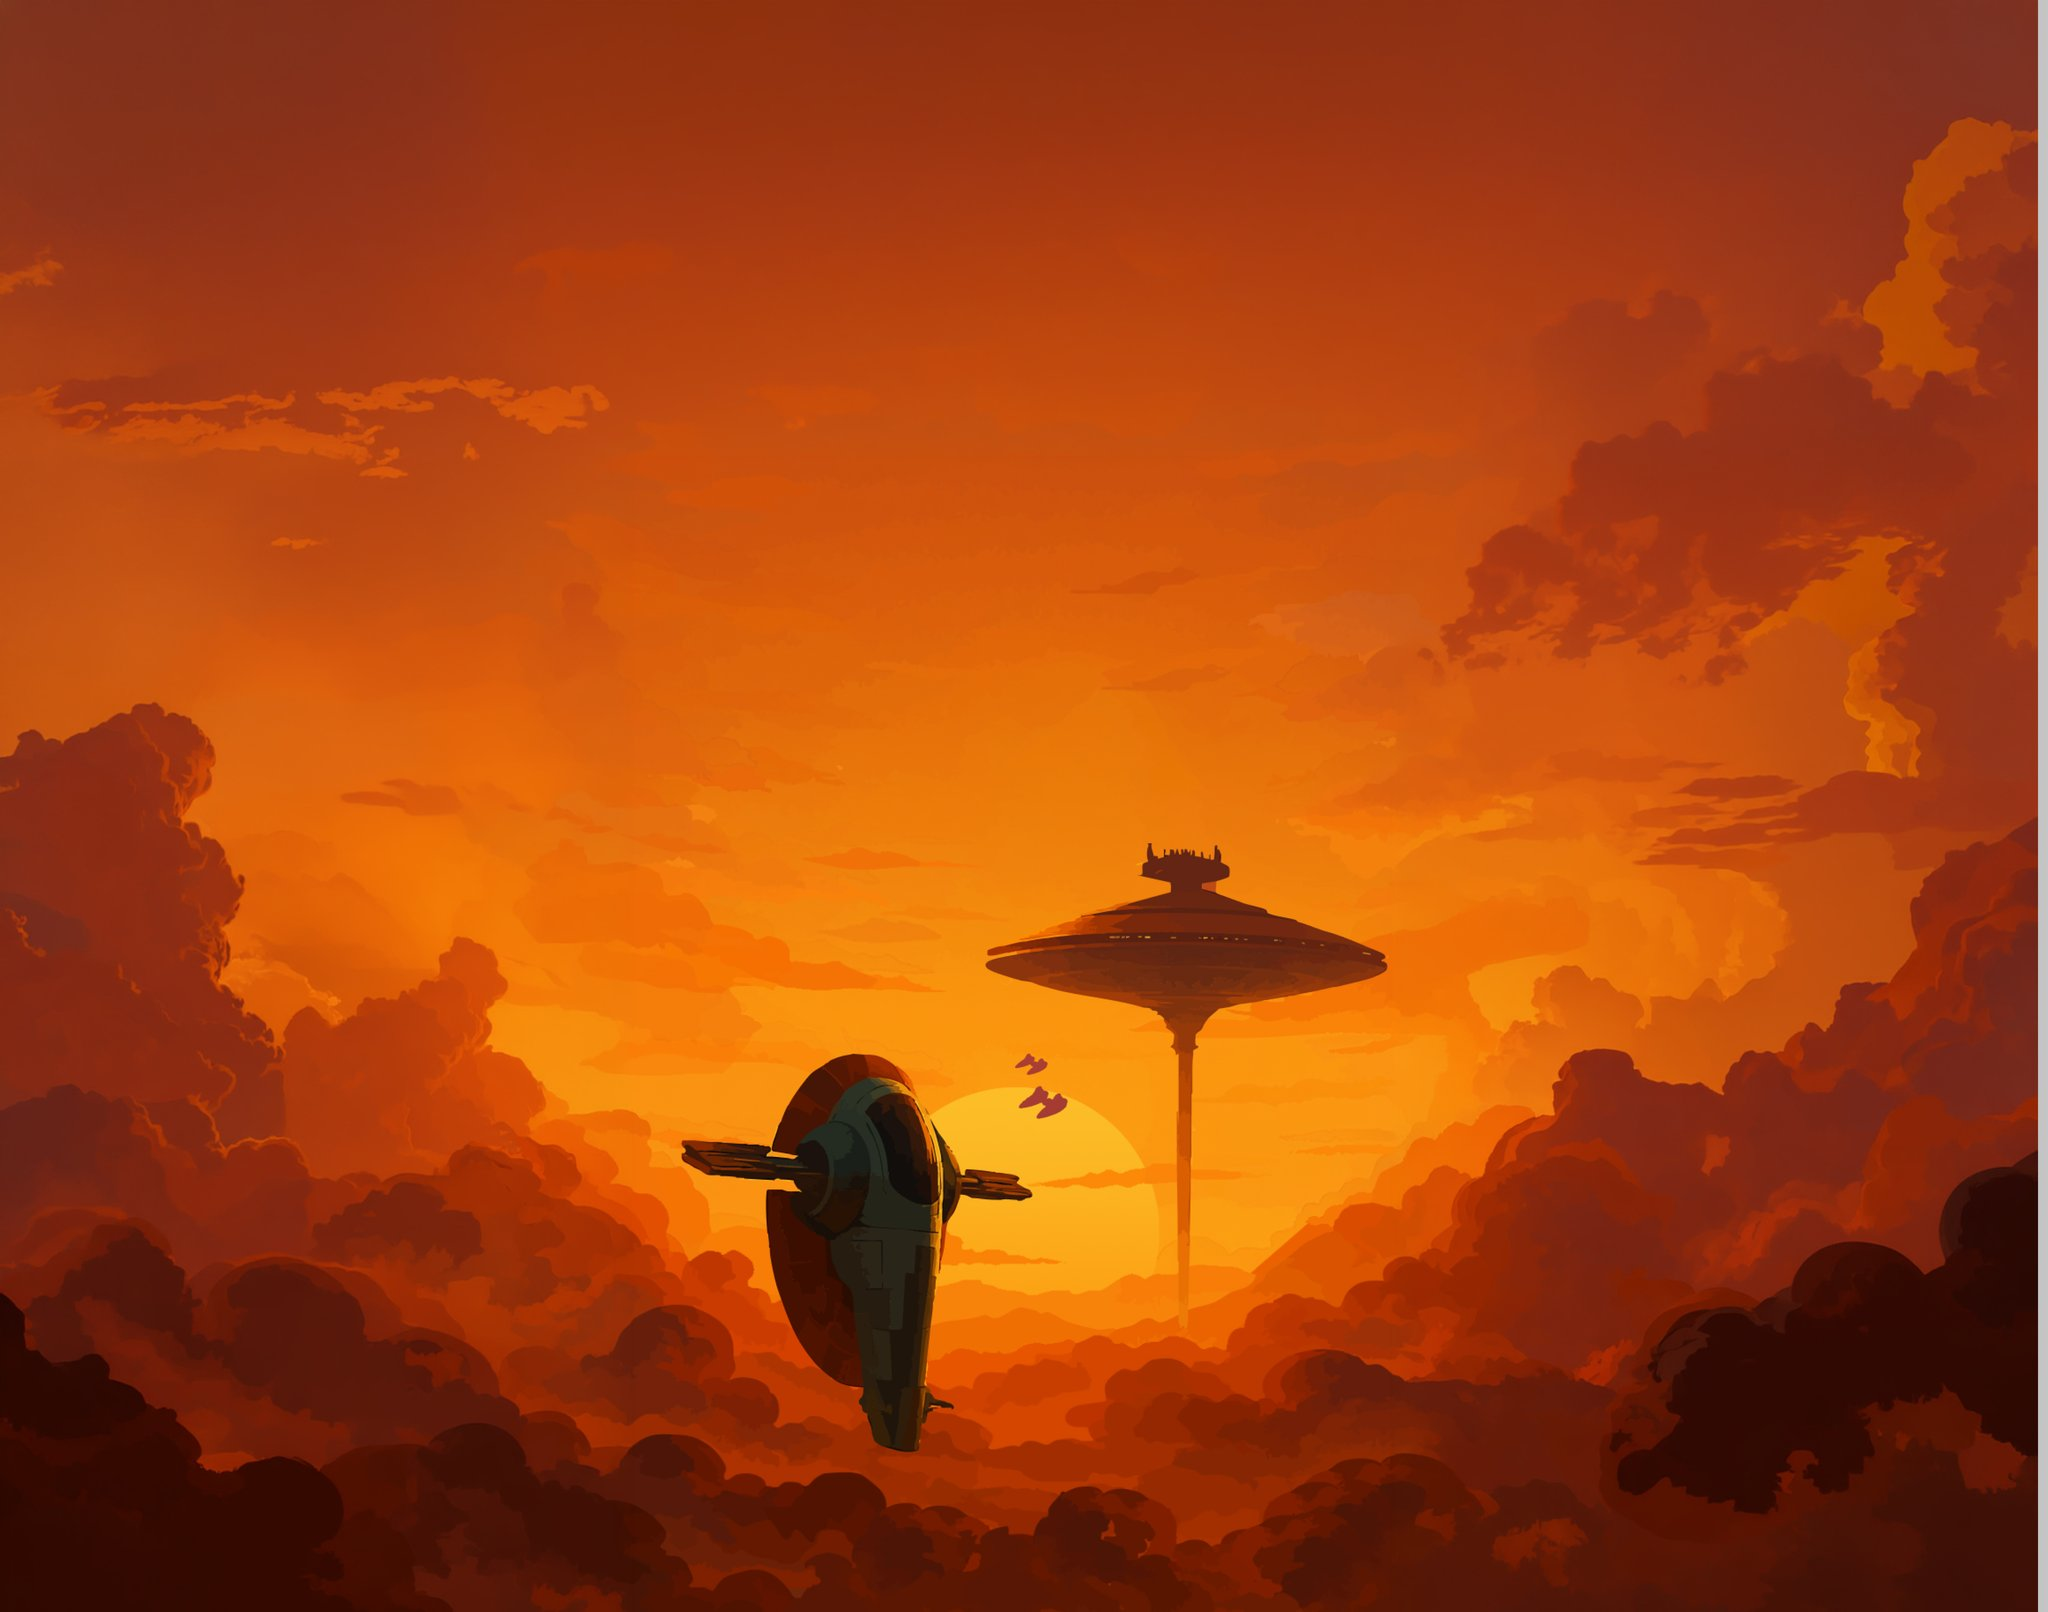
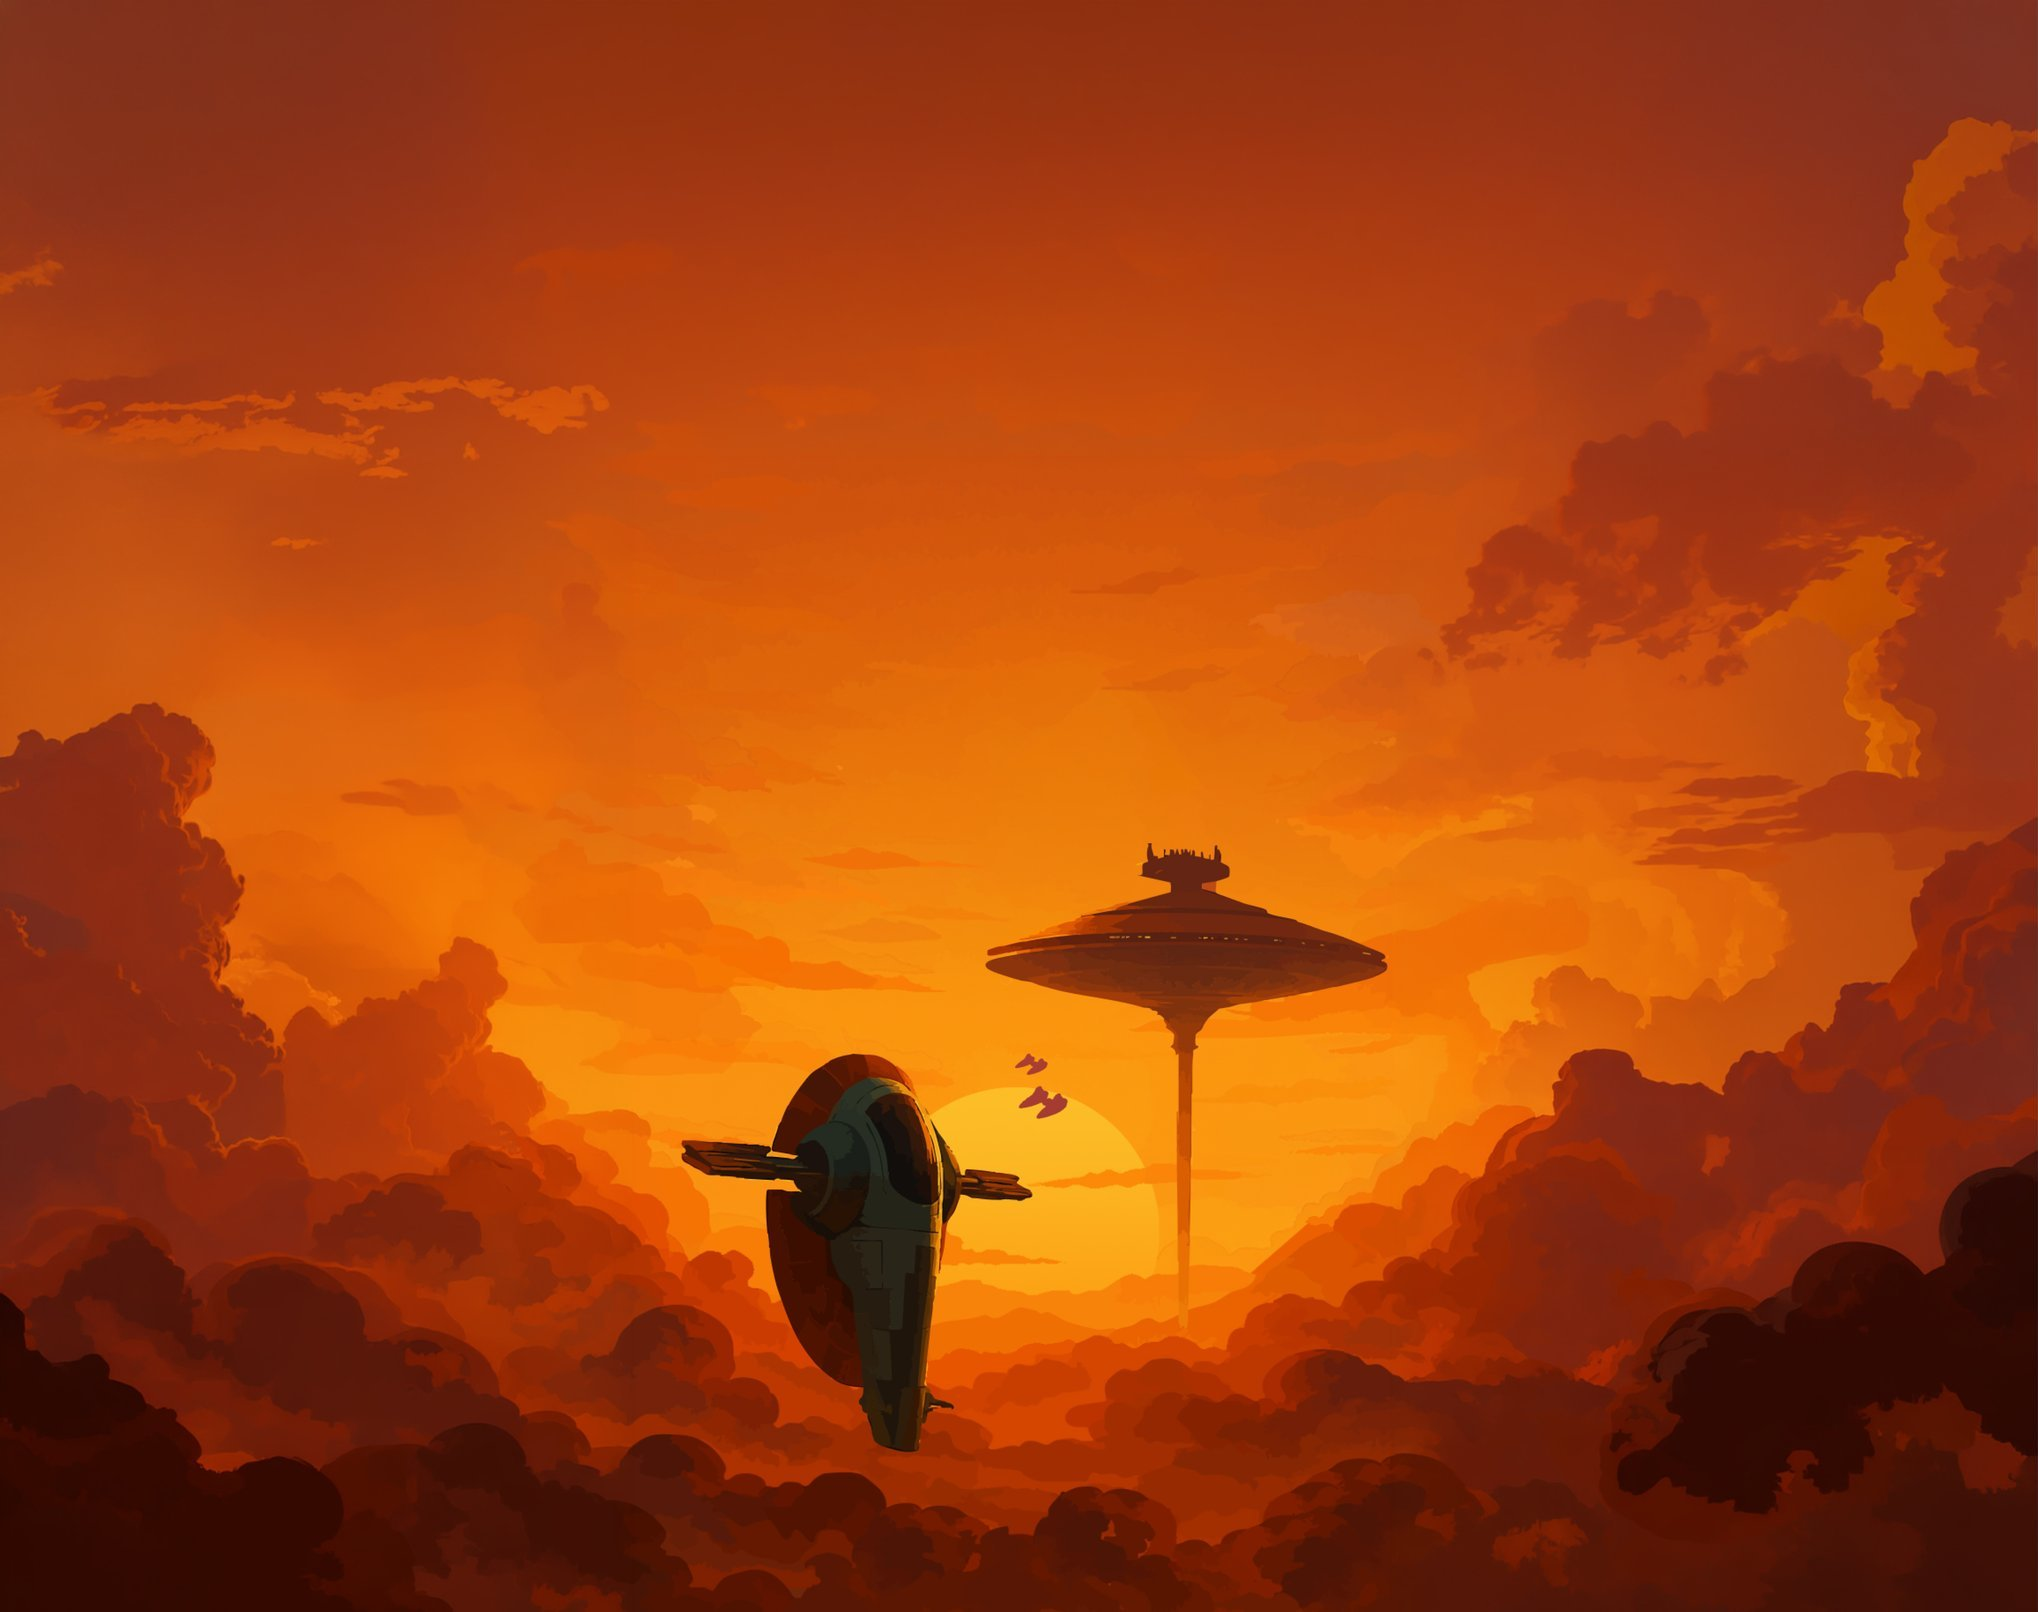
Trim export-frame bands from the art — the actual cause of the card sliver
The sliver down the right of the saved-location cards was in the image, not the
layout. ghorman.jpg — the world on both cards in the report — carried a flat
28px band at brightness 196 against an interior of 113. The card art is
cover-fitted, so the band is drawn like any other part of the painting.

It arrived with the JPG exports: the original PNGs have no band at either
4000px or downsampled, and the exports also changed aspect from 4000x3000 to
4100x3227, which is consistent with Figma including the surrounding frame. The
durable fix is to export without it; this cleans up what is already here.

Six files trimmed: ghorman 28px right, mustafar 19, naboo 18, bespin 10, ilum 3,
exegol 7 bottom.

An edge is only trimmed when it differs from the pixels just inside it AND is
near-uniform along its length AND terminates inside the scan window. The last
rule matters: a first pass wanted to take 40px off the bottom of ahch-to and
nur, whose dark water is flat and uniform for far longer than any frame — that
would have cut the paintings.

Tones regenerated; only Exegol moved, by three hex points.

The earlier GeometryReader change to SavedLocationCardView was not the fix.
Keeping it: flexible-bounds aspect-fill was the only instance in the app, and
explicit sizing is what the other eight call sites already do.

diff --git a/web-app/galactic-weather/src/app/components/NavMenu.tsx b/web-app/galactic-weather/src/app/components/NavMenu.tsx
@@ -1,0 +1,97 @@
+"use client";
+import React, { useEffect, useRef, useState } from "react";
+import Link from "next/link";
+import styles from "../styles/NavMenu.module.css";
+
+/**
+ * The small stuff, behind a "…" in the nav.
+ *
+ * This mirrors what iOS's dropdown became: Atlas and Passport are the things
+ * people come here for and get real buttons, while attribution and legal — the
+ * housekeeping — moves out of sight until asked for. The artwork credit stays in
+ * the footer rather than moving in here; it's a product statement, not
+ * housekeeping.
+ *
+ * iOS additionally has Settings and Account in its menu. Neither exists on web,
+ * so this is deliberately shorter rather than padded out to match.
+ */
+const NavMenu: React.FC = () => {
+	const [isOpen, setIsOpen] = useState(false);
+	const containerRef = useRef<HTMLDivElement>(null);
+
+	// A dropdown that only closes via its own button is a trap on a page where
+	// everything else is clickable.
+	useEffect(() => {
+		if (!isOpen) return;
+
+		const onPointerDown = (event: MouseEvent | TouchEvent) => {
+			if (!containerRef.current?.contains(event.target as Node)) {
+				setIsOpen(false);
+			}
+		};
+		const onKeyDown = (event: KeyboardEvent) => {
+			if (event.key === "Escape") setIsOpen(false);
+		};
+
+		document.addEventListener("mousedown", onPointerDown);
+		document.addEventListener("touchstart", onPointerDown);
+		document.addEventListener("keydown", onKeyDown);
+		return () => {
+			document.removeEventListener("mousedown", onPointerDown);
+			document.removeEventListener("touchstart", onPointerDown);
+			document.removeEventListener("keydown", onKeyDown);
+		};
+	}, [isOpen]);
+
+	return (
+		<div className={styles.container} ref={containerRef}>
+			<button
+				type="button"
+				className={styles.trigger}
+				onClick={() => setIsOpen((open) => !open)}
+				aria-haspopup="menu"
+				aria-expanded={isOpen}
+				aria-label="More"
+			>
+				{/* Three dots as text: an icon font or SVG for one glyph isn't worth
+				    the weight, and this scales with the button's font size. */}
+				<span aria-hidden="true">···</span>
+			</button>
+
+			{isOpen && (
+				<div className={styles.menu} role="menu">
+					<p className={styles.credit}>
+						Inspired by a{" "}
+						<a
+							href="https://www.tomscott.com/weather/starwars/"
+							target="_blank"
+							rel="noopener noreferrer"
+						>
+							weather site
+						</a>{" "}
+						from long ago. Designed and developed by{" "}
+						<a
+							href="https://www.robleto.com/"
+							target="_blank"
+							rel="noopener noreferrer"
+						>
+							Greg Robleto
+						</a>
+						.
+					</p>
+
+					<Link
+						href="/privacy"
+						className={styles.item}
+						role="menuitem"
+						onClick={() => setIsOpen(false)}
+					>
+						Privacy
+					</Link>
+				</div>
+			)}
+		</div>
+	);
+};
+
+export default NavMenu;

diff --git a/web-app/galactic-weather/src/app/styles/NavMenu.module.css b/web-app/galactic-weather/src/app/styles/NavMenu.module.css
@@ -1,0 +1,79 @@
+.container {
+  position: relative;
+  flex-shrink: 0;
+}
+
+/* Matches .navAction in page.module.css, but square-ish rather than a pill —
+   it holds one glyph, not a word. */
+.trigger {
+  flex-shrink: 0;
+  display: inline-flex;
+  align-items: center;
+  justify-content: center;
+  min-width: 2rem;
+  background: rgba(255, 255, 255, 0.1);
+  border: 1px solid rgba(255, 255, 255, 0.22);
+  color: #fafafa;
+  border-radius: 999px;
+  padding: 0.4rem 0.6rem;
+  font: inherit;
+  font-size: 0.75rem;
+  line-height: 1;
+  letter-spacing: 0.05em;
+  cursor: pointer;
+  transition: background 0.2s ease;
+}
+
+.trigger:hover {
+  background: rgba(255, 255, 255, 0.18);
+}
+
+.menu {
+  position: absolute;
+  top: calc(100% + 0.4rem);
+  right: 0;
+  z-index: 400; /* above the nav bar itself (300) */
+  width: max-content;
+  max-width: min(20rem, calc(100vw - 2rem));
+  display: flex;
+  flex-direction: column;
+  gap: 0.5rem;
+  padding: 0.75rem 0.875rem;
+  border-radius: 0.75rem;
+  background: rgba(10, 14, 22, 0.92);
+  backdrop-filter: blur(10px);
+  -webkit-backdrop-filter: blur(10px);
+  border: 1px solid rgba(255, 255, 255, 0.14);
+  box-shadow: 0 12px 32px rgba(0, 0, 0, 0.45);
+}
+
+.credit {
+  margin: 0;
+  font-size: 0.75rem;
+  line-height: 1.5;
+  color: rgba(250, 250, 250, 0.7);
+}
+
+.credit a {
+  color: #8fc7ff;
+}
+
+.item {
+  display: block;
+  padding: 0.375rem 0;
+  font-size: 0.8125rem;
+  color: #fafafa;
+  text-decoration: none;
+  border-top: 1px solid rgba(255, 255, 255, 0.12);
+}
+
+.item:hover {
+  color: #8fc7ff;
+}
+
+@media (max-width: 600px) {
+  .trigger {
+    padding: 0.35rem 0.5rem;
+    font-size: 0.6875rem;
+  }
+}

diff --git a/web-app/galactic-weather/src/app/components/Footer.tsx b/web-app/galactic-weather/src/app/components/Footer.tsx
@@ -16,7 +16,7 @@ import styles from "../styles/Footer.module.css";
 const Footer: React.FC = () => (
 	<footer className={styles.footer}>
 		<p className={styles.artworkCredit}>
-			Every world here is an original painting — a travel poster for somewhere
+			Every world here is an original digital design — a travel poster for somewhere
 			that doesn&apos;t exist. Prints of the full set are at{" "}
 			<a
 				href="https://creativemadness.studio"

diff --git a/ios-app/galacticweather/galacticweather/Atlas/Worlds.swift b/ios-app/galacticweather/galacticweather/Atlas/Worlds.swift
@@ -117,7 +117,7 @@ let WORLDS: [World] = [
         climate: .storm,
         color: WorldColor(primary: "#9589A4", headline: "#686788"),
         textTone: .light,
-        textColor: "#706F8E"
+        textColor: "#6D6C8C"
     ),
     World(
         id: "ferrix",

diff --git a/web-app/galactic-weather/src/lib/atlas/worlds.ts b/web-app/galactic-weather/src/lib/atlas/worlds.ts
@@ -119,7 +119,7 @@ export const WORLDS: readonly World[] = [
 		climate: "storm",
 		color: { primary: "#9589A4", headline: "#686788" },
 		textTone: "light",
-		textColor: "#706F8E",
+		textColor: "#6D6C8C",
 	},
 	{
 		id: "ferrix",

diff --git a/scripts/trim-art-edges.py b/scripts/trim-art-edges.py
@@ -1,0 +1,96 @@
+#!/usr/bin/env python3
+"""Trim flat export-frame bands from the edges of the planet art.
+
+The JPG exports arrived with a uniform band on some edges — up to 24px on
+ghorman's right — which showed as a sliver of pale grey down the edge of the
+saved-location cards, since the card art is cover-fitted and the band is part of
+the image. The original PNG art had no such band, so this is an export artifact
+rather than something in the paintings.
+
+A band is only trimmed when it is BOTH clearly different from the pixels just
+inside it AND near-uniform along its length. Real artwork varies down an edge; a
+frame does not. Anything ambiguous is left alone and reported.
+
+The durable fix is to export without the surrounding frame; this cleans up what
+is already here. Idempotent — a trimmed image has no band left to find.
+
+  python3 scripts/trim-art-edges.py [--dry-run]
+"""
+import argparse, shutil, sys
+from pathlib import Path
+try:
+    from PIL import Image
+except ImportError:
+    sys.exit("Pillow required: pip install Pillow")
+
+ROOT = Path(__file__).resolve().parent.parent
+WEB = ROOT / "web-app/galactic-weather/public/planets"
+IOS = ROOT / "ios-app/galacticweather/galacticweather/Resources/Assets.xcassets/Planets"
+
+MAX_BAND = 40          # never trim more than this from one edge
+DIFF_FROM_INTERIOR = 12  # how different a band must be to count
+MAX_BAND_VARIANCE = 6.0  # how uniform it must be along its length
+
+def _samples(px, size, side, i):
+    w, h = size
+    if side in ("left", "right"):
+        x = i if side == "left" else w - 1 - i
+        return [px[x, y] for y in range(0, h, max(1, h // 80))]
+    y = i if side == "top" else h - 1 - i
+    return [px[x, y] for x in range(0, w, max(1, w // 80))]
+
+def band_width(im, side):
+    px, size = im.load(), im.size
+    def bright(i):
+        s = _samples(px, size, side, i)
+        return sum(sum(p) / 3 for p in s) / len(s)
+    def variance(i):
+        s = [sum(p) / 3 for p in _samples(px, size, side, i)]
+        m = sum(s) / len(s)
+        return (sum((v - m) ** 2 for v in s) / len(s)) ** 0.5
+    ref = sum(bright(i) for i in range(MAX_BAND + 4, MAX_BAND + 14)) / 10
+    n = 0
+    for i in range(MAX_BAND):
+        if abs(bright(i) - ref) > DIFF_FROM_INTERIOR and variance(i) < MAX_BAND_VARIANCE:
+            n = i + 1
+        else:
+            break
+    # A band that never terminates inside the scan window is not a thin export
+    # frame — it is flat artwork, like the dark water filling the bottom of
+    # ahch-to and nur. Trimming it would cut the painting.
+    return 0 if n >= MAX_BAND else n
+
+def main():
+    ap = argparse.ArgumentParser()
+    ap.add_argument("--dry-run", action="store_true")
+    args = ap.parse_args()
+
+    trimmed, ambiguous = [], []
+    for f in sorted(WEB.glob("*.jpg")):
+        im = Image.open(f).convert("RGB")
+        w, h = im.size
+        b = {s: band_width(im, s) for s in ("left", "right", "top", "bottom")}
+        if not any(b.values()):
+            continue
+        box = (b["left"], b["top"], w - b["right"], h - b["bottom"])
+        trimmed.append((f.name, (w, h), b, (box[2] - box[0], box[3] - box[1])))
+        if args.dry_run:
+            continue
+        out = im.crop(box)
+        out.save(f, "JPEG", quality=85, optimize=True, progressive=True)
+        twin = IOS / f"{f.stem}.imageset" / f.name
+        if twin.exists():
+            shutil.copyfile(f, twin)
+
+    if not trimmed:
+        print("no edge bands found — nothing to trim")
+        return
+    print(f"{len(trimmed)} file(s) trimmed:\n")
+    for name, before, b, after in trimmed:
+        edges = ", ".join(f"{k} {v}px" for k, v in b.items() if v)
+        print(f"  {name:20} {before[0]}x{before[1]} -> {after[0]}x{after[1]}   ({edges})")
+    if not args.dry_run:
+        print("\nRe-run scripts/measure-text-tone.py — the measured region shifted slightly.")
+
+if __name__ == "__main__":
+    main()
